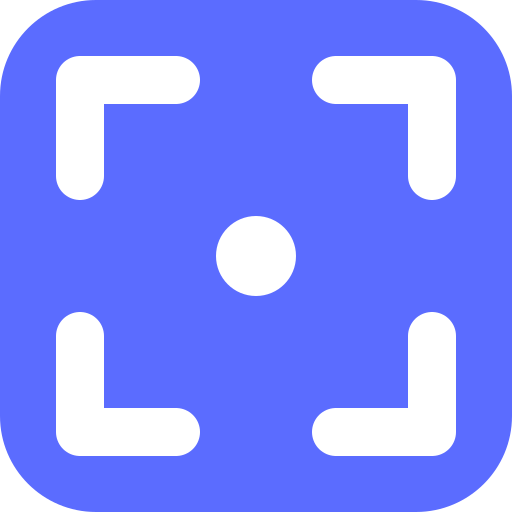
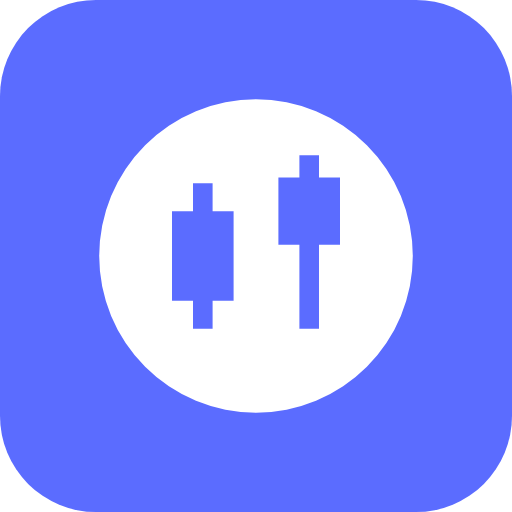
Ship the new mark to the app and the PWA
The design has been ahead of the code since kit 0.7.0; this closes it.
Artwork, manifest and every cache bust move together, because a bumped
icon behind a stale query string is a browser serving the old logo
indefinitely.

- logo_light/dark.svg rebuilt on the canonical geometry, with the
  wordmark baseline set so its ink centres against the disc instead of
  its text box.
- favicon / icon / icon-192 / icon-512: flat plate, white mark at 70%,
  square — each platform applies its own rounding.
- icon-maskable-512.svg is new, and the manifest's maskable entry now
  points at it. It used to serve the same artwork as `any`, which put
  the old mark's corners exactly where a circular launcher crops.
- PNG rasters regenerated at 1x; apple-touch-icon is opaque and
  unrounded, since iOS masks it itself.
- manifest copy is es-MX. It replaced 1.0 multi-user marketing written
  in English, on the surface a user reads while installing.
- manifest gains `id`. Without it, PWA identity derives from start_url,
  so changing that later would strand anyone who installed the app.

Two things CODE_CHANGES §11 did not predict:

service-worker.js also pinned ?v=2 and pre-caches every brand asset, so
bumping only the layout and the manifest would have left it serving the
old logo from its own cache forever. CACHE_VERSION v4 -> v5 so the
activate handler purges it, and the maskable icon joins PRECACHE_URLS —
verified all eight entries resolve, since addAll rejects the whole
[…]

diff --git a/public/service-worker.js b/public/service-worker.js
@@ -1,7 +1,7 @@
 // Stockerly Service Worker — cache-first for static assets, network-first for pages
 // Bump CACHE_VERSION whenever brand assets change; the activate handler purges
 // older `stockerly-*` caches so stale logos can't survive across deploys.
-const CACHE_VERSION = "v4";
+const CACHE_VERSION = "v5";
 const STATIC_CACHE = `stockerly-static-${CACHE_VERSION}`;
 const FONT_CACHE = `stockerly-fonts-${CACHE_VERSION}`;
 const OFFLINE_URL = "/offline.html";
@@ -12,12 +12,13 @@ const OFFLINE_URL = "/offline.html";
 // shell never falls back to a missing logo.
 const PRECACHE_URLS = [
   OFFLINE_URL,
-  "/favicon.svg?v=2",
-  "/icon.svg?v=2",
-  "/icon-192.png?v=2",
-  "/icon-512.png?v=2",
-  "/icon-512.svg?v=2",
-  "/apple-touch-icon.png?v=2"
+  "/favicon.svg?v=3",
+  "/icon.svg?v=3",
+  "/icon-192.png?v=3",
+  "/icon-512.png?v=3",
+  "/icon-512.svg?v=3",
+  "/icon-maskable-512.svg?v=3",
+  "/apple-touch-icon.png?v=3"
 ];
 
 // Install: pre-cache offline page and icons

diff --git a/design/CODE_CHANGES.md b/design/CODE_CHANGES.md
@@ -677,31 +677,31 @@ Landing this in code does not need the kit bump — but until `ui-kit.lib.pen` g
 other five flows re-vendor, their artboards keep showing a four-tab bar. That re-vendor is its own
 pass and should not be interleaved with other design work (D31).
 
-## 11. The new mark (D45) — designed, nothing shipped
+## 11. The new mark (D45) — SHIPPED
 
-**Status:** `brand.pen` is done and the kit ships it at 0.7.0. **No app file has changed yet.** The
-design is ahead of the code until this section lands, which is the state D44 priced in.
+Landed as one commit with the artwork, the manifest and every cache bust together. Kit 0.7.0 and
+all seven flows carry the mark; `design/exports/` was regenerated.
 
-**Land it as one commit.** The artwork and the cache bust have to move together — a bumped icon
-with a stale `?v=` is a browser serving the old mark indefinitely, and half a bump is worse than
-none.
-
-| # | What | Notes |
+| # | What | Result |
 |---|---|---|
-| 11.1 | `app/assets/images/logo_light.svg` + `logo_dark.svg` | New lockup geometry: symbol `1.375 ×` the type size, gap `1/6` of the symbol, wordmark raised `0.115 ×` the type size. Source of truth is `design/brand/wordmark.svg` |
-| 11.2 | `public/favicon.svg`, `icon.svg`, `icon-192.svg`, `icon-512.svg` | Flat `#5B6CFF` plate, white mark at **70%**, delivered square — every platform applies its own rounding |
-| 11.3 | **NEW** `public/icon-maskable-512.svg`, and point the manifest's `purpose: maskable` entry at it | This is the 🐞. Today that entry serves `icon-512.svg`, the same artwork as `any`. A maskable's safe zone is the centre circle at 66.6%; the mark goes at **52%**, full-bleed plate, no rounding |
-| 11.4 | Raster: `icon-192.png`, `icon-512.png`, `apple-touch-icon.png` (180, **opaque** — iOS does not composite transparency) | |
-| 11.5 | `public/manifest.json` copy → es-MX | `name`, `short_name`, `description`. Today's strings are 1.0 multi-user marketing in English, on the surface a user reads while installing. Replacements drafted in the PWA sheet |
-| 11.6 | `?v=2` → `?v=3` in **both** files | `app/views/layouts/application.html.erb` (4 links) **and** `public/manifest.json` (4 icons). Bumping one and not the other is the failure mode |
-| 11.7 | `spec/system/logo_spec.rb` — verify, do not rewrite | It asserts `src*='logo_light'` / `logo_dark`, so keeping the filenames keeps it green. If it goes red, the filenames moved and that was not the plan |
-| 11.8 | Two surfaces bypass `shared/_logo` | `layouts/auth.html.erb:18` and `layouts/mailer.html.erb:16` call `image_tag` directly. The partial's own comment claims it is the "single source of truth for the logo render" and it is not. Route them through it, or delete the claim |
+| 11.1 | `app/assets/images/logo_light.svg` + `logo_dark.svg` | Done. Symbol `1.375 x` the type size, gap `1/6` of the symbol, wordmark baseline raised so the ink block centres against the disc rather than the text box |
+| 11.2 | `public/favicon.svg`, `icon.svg`, `icon-192.svg`, `icon-512.svg` | Done. Flat `#5B6CFF` plate, white mark at 70% |
+| 11.3 | **NEW** `public/icon-maskable-512.svg`, manifest `purpose: maskable` repointed | Done — this was the 🐞. Full-bleed plate, no rounding, mark at 52% inside the 66.6% safe circle |
+| 11.4 | `icon-192.png`, `icon-512.png`, `apple-touch-icon.png` (180, opaque, unrounded) | Done, rasterised from the SVGs with headless chromium at 1x |
+| 11.5 | `public/manifest.json` copy → es-MX | Done, plus **`id: "/dashboard"` added** — without it PWA identity derives from `start_url`, so changing that later would strand users with two installed apps |
+| 11.6 | `?v=2` → `?v=3` | Done in **three** files, not the two this section predicted — see below |
+| 11.7 | `spec/system/logo_spec.rb` | Green, 6 examples, unedited. Filenames held |
+| 11.8 | Two surfaces bypass `shared/_logo` | **Still open.** `layouts/auth.html.erb:18` and `layouts/mailer.html.erb:16` still call `image_tag` directly. They render correctly because the filenames did not move, but the partial's "single source of truth" comment is still a lie |
 
-**Not a defect, do not "fix" it later.** The favicon runs white-on-`primary` at **4.17:1** — above
-the 3:1 floor for graphics, never usable for text. Adrian chose colour recognition in a tab strip
-over the 18:1 that an ink plate would give. Recorded in D45; a future reader finding 4.17:1 is
-looking at a decision, not an oversight.
+**Two things this section did not predict.**
 
-**The honest floor.** At true 1× (`design/exports/brand-escala-1x.png`) the wicks close at 24 px and
-below; only the candle bodies survive. The mark keeps a distinctive silhouette there — a disc with
-two light bars — but it no longer reads as candles. Do not write copy that claims otherwise.
+`public/service-worker.js` **also pinned `?v=2`** — it pre-caches every brand asset, so bumping only
+the layout and the manifest would have left the SW serving the old logo from `stockerly-static-v4`
+forever. Its `CACHE_VERSION` went `v4` → `v5` so the activate handler purges the old cache, and the
+maskable icon joined `PRECACHE_URLS`. Note `cache.addAll` rejects the whole install if any URL 404s:
+all eight entries were verified to exist. **The lesson generalises — grep the whole repo for the
+bust token, do not trust a list.**
+
+`app/views/pwa/manifest.json.erb` **was dead and had already drifted** — no route referenced it, not
+even a commented one, and its `start_url` said `/` while the served `public/manifest.json` said
+`/dashboard`. Deleted rather than updated; two manifests that disagree is worse than one.
